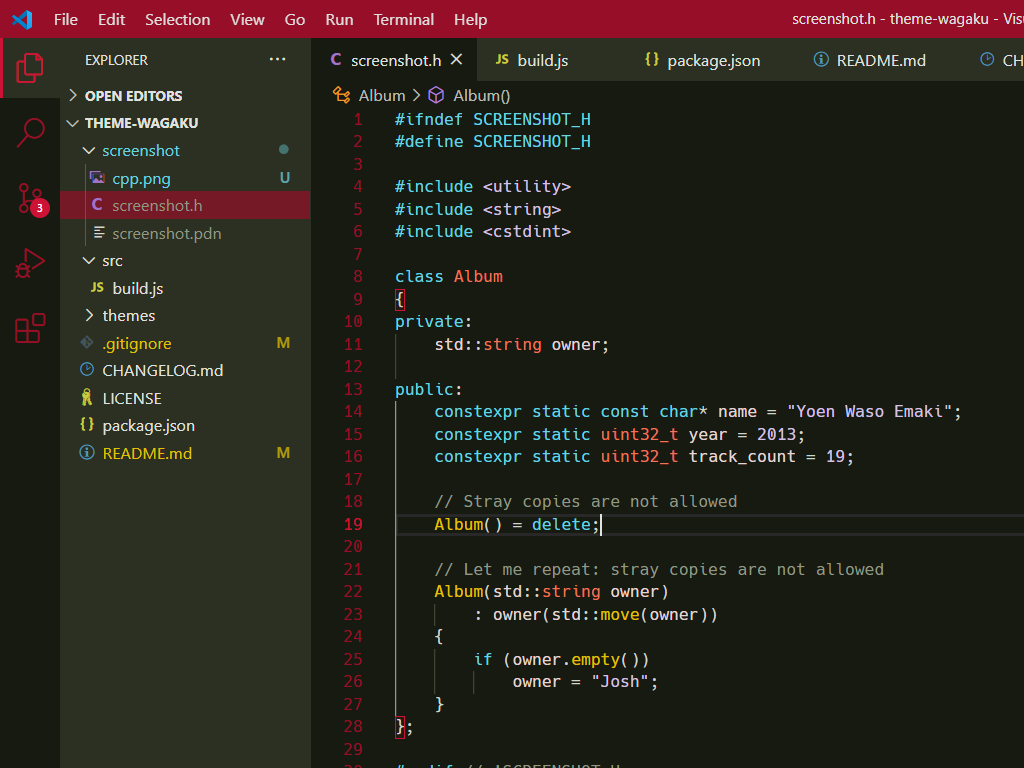
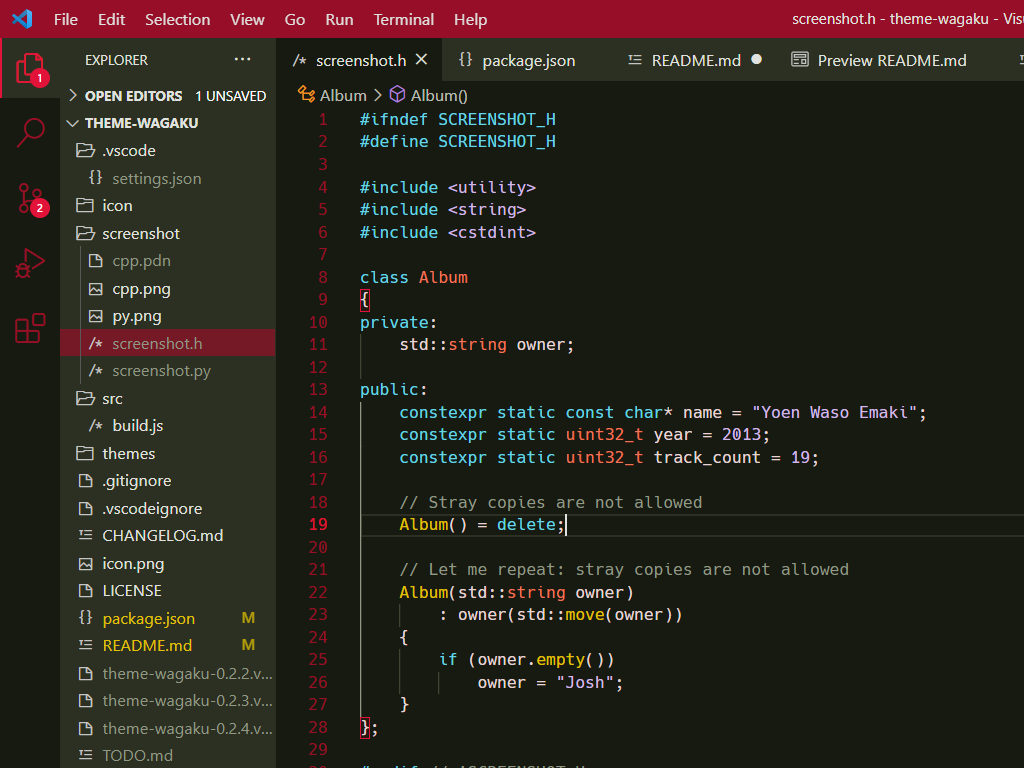
Update screenchot

diff --git a/README.md b/README.md
@@ -6,6 +6,7 @@ A minimally colorful theme with an oriental twist. If you enjoy Monokai, give Wa
 
 - Font: [Hack](https://sourcefoundry.org/hack/) 13px
 - Platform: Windows 10 (125% display scaling)
+- Icon Theme: [Chalice Icon Theme](https://marketplace.visualstudio.com/items?itemName=artlaman.chalice-icon-theme)
 
 #### C++
 
